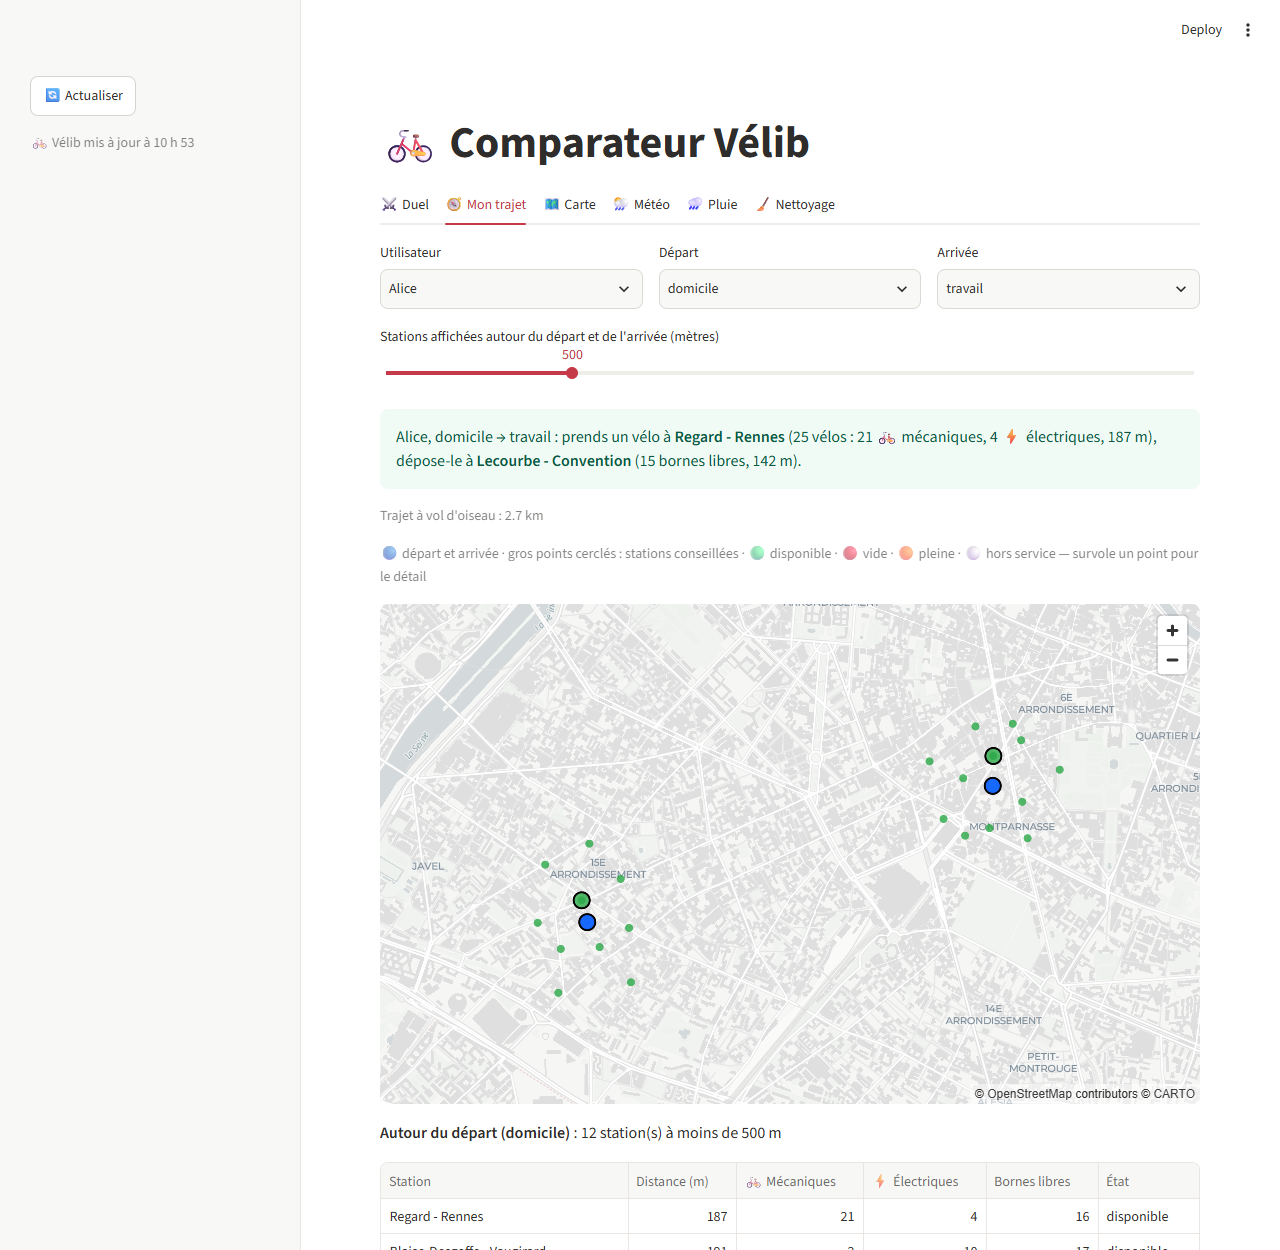
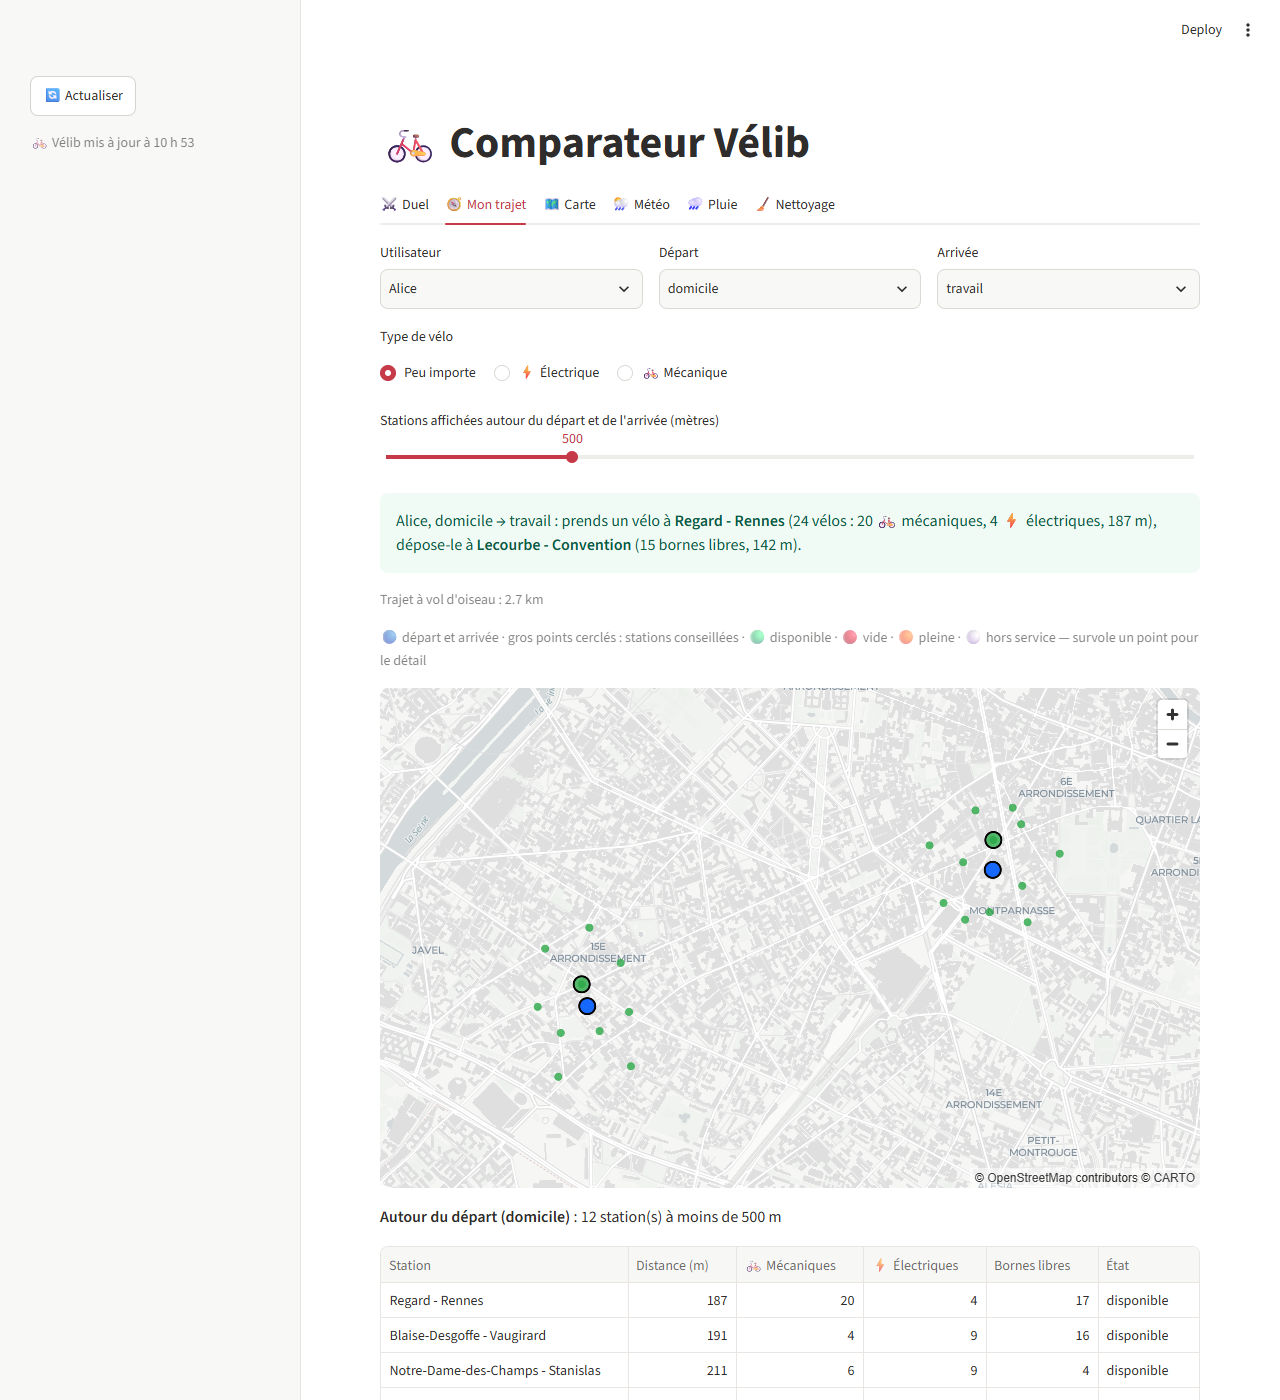
Ajoute le filtre vélo électrique ou mécanique au trajet

diff --git a/app.py b/app.py
@@ -14,7 +14,7 @@ from src.indicateurs import etat_station, stations_de, stats_commune
 from src.meteo import CleMeteoAbsente, meteo_actuelle
 from src.nettoyage import nettoyer_velib, zones_disponibles
 from src.recuperation import DonneesIndisponibles, charger_utilisateurs, charger_velib_brut
-from src.trajet import distance_m, station_conseillee, stations_proches
+from src.trajet import COLONNE_TYPE, distance_m, station_conseillee, stations_proches
 
 # Couleur de chaque état de station sur la carte (rouge, vert, bleu, opacité)
 COULEURS = {
@@ -24,6 +24,8 @@ COULEURS = {
     "hors service": [150, 150, 150, 160],
 }
 TOUTES = "Toutes les stations"
+# Choix du type de vélo dans « Mon trajet » : libellé affiché → valeur de station_conseillee()
+TYPES_VELO = {"Peu importe": None, "⚡ Électrique": "electrique", "🚲 Mécanique": "mecanique"}
 
 
 @st.cache_data(ttl=60, show_spinner="Téléchargement des données Vélib…")
@@ -109,20 +111,25 @@ with onglet_trajet:
         lieux = list(utilisateurs[nom])
         depart = choix_depart.selectbox("Départ", lieux, index=0)
         arrivee = choix_arrivee.selectbox("Arrivée", lieux, index=min(1, len(lieux) - 1))
+        libelle_type = st.radio("Type de vélo", list(TYPES_VELO), horizontal=True)
+        type_velo = TYPES_VELO[libelle_type]
         rayon = st.slider("Stations affichées autour du départ et de l'arrivée (mètres)", 200, 1500, 500, step=100)
         point_depart, point_arrivee = utilisateurs[nom][depart], utilisateurs[nom][arrivee]
 
-        prise = station_conseillee(df, point_depart["lat"], point_depart["lon"], "velo")
+        prise = station_conseillee(df, point_depart["lat"], point_depart["lon"], "velo", type_velo)
         depot = station_conseillee(df, point_arrivee["lat"], point_arrivee["lon"], "borne")
 
         if depart == arrivee:
             st.info("Choisis deux lieux différents.")
+        elif prise is None and type_velo:
+            st.error(f"Aucune station en service n'a de vélo {libelle_type.split()[1].lower()} en ce moment.")
         elif prise is None or depot is None:
             st.error("Aucune station en service ne convient pour ce trajet en ce moment.")
         else:
+            velo = {None: "un vélo", "electrique": "un vélo ⚡ électrique", "mecanique": "un vélo 🚲 mécanique"}[type_velo]
             st.success(
-                f"{nom}, {depart} → {arrivee} : prends un vélo à **{prise['name']}** "
-                f"({prise['nombre']} vélos : {prise['mechanical']} 🚲 mécaniques, {prise['ebike']} ⚡ électriques, "
+                f"{nom}, {depart} → {arrivee} : prends {velo} à **{prise['name']}** "
+                f"({prise['mechanical'] + prise['ebike']} vélos : {prise['mechanical']} 🚲 mécaniques, {prise['ebike']} ⚡ électriques, "
                 f"{prise['distance_m']} m), dépose-le à **{depot['name']}** "
                 f"({depot['nombre']} bornes libres, {depot['distance_m']} m)."
             )
@@ -132,6 +139,12 @@ with onglet_trajet:
 
             # Toutes les stations autour du départ et de l'arrivée, colorées selon leur état
             autour_depart = stations_proches(df, point_depart["lat"], point_depart["lon"], rayon)
+            masquees = 0
+            if type_velo:
+                # Au départ, on ne garde que les stations qui ont au moins un vélo du type choisi
+                avec_type = autour_depart[COLONNE_TYPE[type_velo]] >= 1
+                masquees = int((~avec_type).sum())
+                autour_depart = autour_depart[avec_type]
             autour_arrivee = stations_proches(df, point_arrivee["lat"], point_arrivee["lon"], rayon)
             autour = pd.concat([autour_depart, autour_arrivee]).drop_duplicates("stationcode")
             autour["etat"] = etat_station(autour)
@@ -183,6 +196,8 @@ with onglet_trajet:
                 (f"Autour de l'arrivée ({arrivee})", autour_arrivee),
             ]:
                 st.markdown(f"**{titre}** : {len(stations)} station(s) à moins de {rayon} m")
+                if masquees and stations is autour_depart:
+                    st.caption(f"{masquees} station(s) masquée(s) : aucun vélo {libelle_type.split()[1].lower()} disponible.")
                 stations = stations.assign(etat=etat_station(stations))
                 st.dataframe(stations[list(colonnes_tableau)].rename(columns=colonnes_tableau), hide_index=True)
 

diff --git a/src/trajet.py b/src/trajet.py
@@ -3,6 +3,7 @@ import math
 
 RAYON_TERRE_M = 6_371_000
 COLONNE_BESOIN = {"velo": "numbikesavailable", "borne": "numdocksavailable"}
+COLONNE_TYPE = {"mecanique": "mechanical", "electrique": "ebike"}
 
 
 def distance_m(lat1, lon1, lat2, lon2):
@@ -18,21 +19,27 @@ def distance_m(lat1, lon1, lat2, lon2):
     return 2 * RAYON_TERRE_M * math.asin(math.sqrt(a))
 
 
-def station_conseillee(df, lat, lon, besoin):
+def station_conseillee(df, lat, lon, besoin, type_velo=None):
     """Trouve la meilleure station autour d'un point.
 
-    Reçoit : le tableau nettoyé, un point (lat, lon) et besoin = "velo" (pour prendre
-    un vélo) ou "borne" (pour en déposer un).
-    Renvoie : dict name, distance_m (mètres, entier), nombre (vélos ou bornes libres),
+    Reçoit : le tableau nettoyé, un point (lat, lon), besoin = "velo" (pour prendre
+    un vélo) ou "borne" (pour en déposer un), et type_velo = None (peu importe),
+    "mecanique" ou "electrique" (seulement pour besoin = "velo").
+    Renvoie : dict name, distance_m (mètres, entier), nombre (vélos du type demandé,
+    ou bornes libres),
     mechanical, ebike (vélos mécaniques / électriques), lat, lon ;
     ou None si aucune station ne convient.
-    Règles : stations en service seulement, avec au moins 1 vélo (ou 1 borne libre) ;
-    la plus proche ; à distance égale, celle qui a le plus de vélos (ou de bornes).
-    Lève ValueError si besoin n'est ni "velo" ni "borne".
+    Règles : stations en service seulement, avec au moins 1 vélo du type demandé
+    (ou 1 borne libre) ; la plus proche ; à distance égale, celle qui en a le plus.
+    Lève ValueError si besoin ou type_velo n'a pas une valeur prévue.
     """
     if besoin not in COLONNE_BESOIN:
         raise ValueError(f'besoin doit valoir "velo" ou "borne", pas {besoin!r}')
+    if type_velo is not None and type_velo not in COLONNE_TYPE:
+        raise ValueError(f'type_velo doit valoir None, "mecanique" ou "electrique", pas {type_velo!r}')
     colonne = COLONNE_BESOIN[besoin]
+    if besoin == "velo" and type_velo:
+        colonne = COLONNE_TYPE[type_velo]  # on ne compte que les vélos du type voulu
 
     candidates = df[df["en_service"] & (df[colonne] >= 1)].copy()
     if candidates.empty:

diff --git a/tests/test_trajet.py b/tests/test_trajet.py
@@ -80,3 +80,28 @@ def test_stations_proches(df_test):
     assert proches["distance_m"].iloc[0] == 0
     # Saint-Sulpice et Raspail - Bac (hors service) sont dans un rayon de 2 km
     assert len(stations_proches(df_test, *SAINT_SULPICE, rayon_m=2000)) == 4
+
+
+def test_type_de_velo(df_test):
+    # Près de Saint-Sulpice : 2 mécaniques et 9 électriques
+    electrique = station_conseillee(df_test, *SAINT_SULPICE, "velo", "electrique")
+    assert (electrique["name"], electrique["nombre"]) == ("Saint-Sulpice", 9)
+    mecanique = station_conseillee(df_test, *SAINT_SULPICE, "velo", "mecanique")
+    assert (mecanique["name"], mecanique["nombre"]) == ("Saint-Sulpice", 2)
+
+
+def test_station_sans_le_type_voulu_ignoree(df_test):
+    # Saint-Sulpice n'a plus d'électrique : on va à la plus proche qui en a (Lacépède - Linné)
+    df = df_test.copy()
+    df.loc[df["name"] == "Saint-Sulpice", "ebike"] = 0
+    assert station_conseillee(df, *SAINT_SULPICE, "velo", "electrique")["name"] == "Lacépède - Linné"
+    assert station_conseillee(df, *SAINT_SULPICE, "velo")["name"] == "Saint-Sulpice"
+
+
+def test_type_ignore_pour_les_bornes(df_test):
+    assert station_conseillee(df_test, *SAINT_SULPICE, "borne", "electrique") == station_conseillee(df_test, *SAINT_SULPICE, "borne")
+
+
+def test_type_inconnu(df_test):
+    with pytest.raises(ValueError):
+        station_conseillee(df_test, *SAINT_SULPICE, "velo", "tandem")

diff --git a/README.md b/README.md
@@ -76,7 +76,7 @@ streamlit run app.py
 | Onglet | Contenu |
 |---|---|
 | ⚔ Duel | Deux communes ou arrondissements côte à côte, 🏆 sur chaque indicateur gagnant, gagnant global |
-| 🧭 Mon trajet | Pour un utilisateur (inventé) et un trajet : la station où prendre un vélo et celle où le déposer, et toutes les stations autour du départ et de l'arrivée (vélos mécaniques, électriques, bornes libres) |
+| 🧭 Mon trajet | Pour un utilisateur (inventé) et un trajet : la station où prendre un vélo et celle où le déposer, et toutes les stations autour du départ et de l'arrivée (vélos mécaniques, électriques, bornes libres) ; filtre ⚡ électrique / 🚲 mécanique |
 | 🗺 Carte | Toutes les stations : 🟢 disponible, 🔴 vide, 🟠 pleine, ⚪ hors service ; détail au survol |
 | 🌦 Météo | Température, vent et pluie à Paris-Montsouris |
 | 🌧 Pluie | Effet de la pluie sur le remplissage, d'après l'historique collecté |

diff --git a/RELAIS.md b/RELAIS.md
@@ -49,6 +49,7 @@ lis ce fichier ; après chaque PR fusionnée, mets à jour sa ligne.
 | #18 | B | Relecture et nettoyage | `relecture` | #43 | ✅ Fusionnée |
 | #19 | C | README | `readme` | #44 | ✅ Fusionnée |
 | — | C | Mon trajet : stations autour du trajet, vélos mécaniques / électriques, lieux réalistes | `trajet-stations-proches` | #45 | ✅ Fusionnée |
+| — | C | Mon trajet : filtre vélo électrique / mécanique | `filtre-type-velo` | — | ⏳ À faire |
 | #20 | Équipe | Checklist finale | — | — | Vérifiée en commentaire sur l'issue (points humains à cocher en équipe) |
 
 ## Points à faire par l'équipe (non automatisables)
